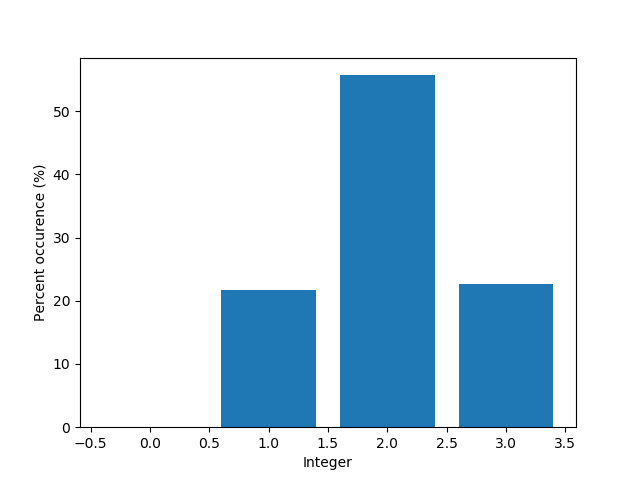
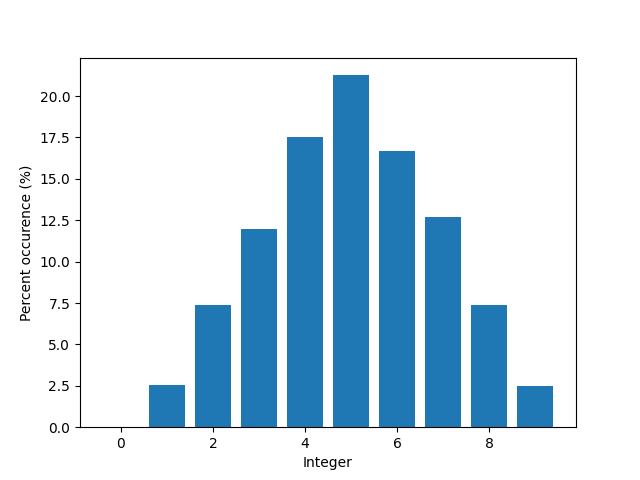
relearning triangle prob

diff --git a/Bayes_example/Bayes/checking triangular.py b/Bayes_example/Bayes/checking triangular.py
@@ -6,12 +6,12 @@ n=10000
 
 array=np.zeros(n)
 for i in range(n):
-    array[i]=int((random.triangular(1,4)))
-y=np.zeros(4)
-x=np.zeros(4)
+    array[i]=int((random.triangular(1,10)))
+y=np.zeros(10)
+x=np.zeros(10)
 
 #Add together instances of a given integer in the random array
-for i in range(1,4):
+for i in range(1,10):
     y[i]=np.sum(array==i)/n*100
     x[i]=i
     
